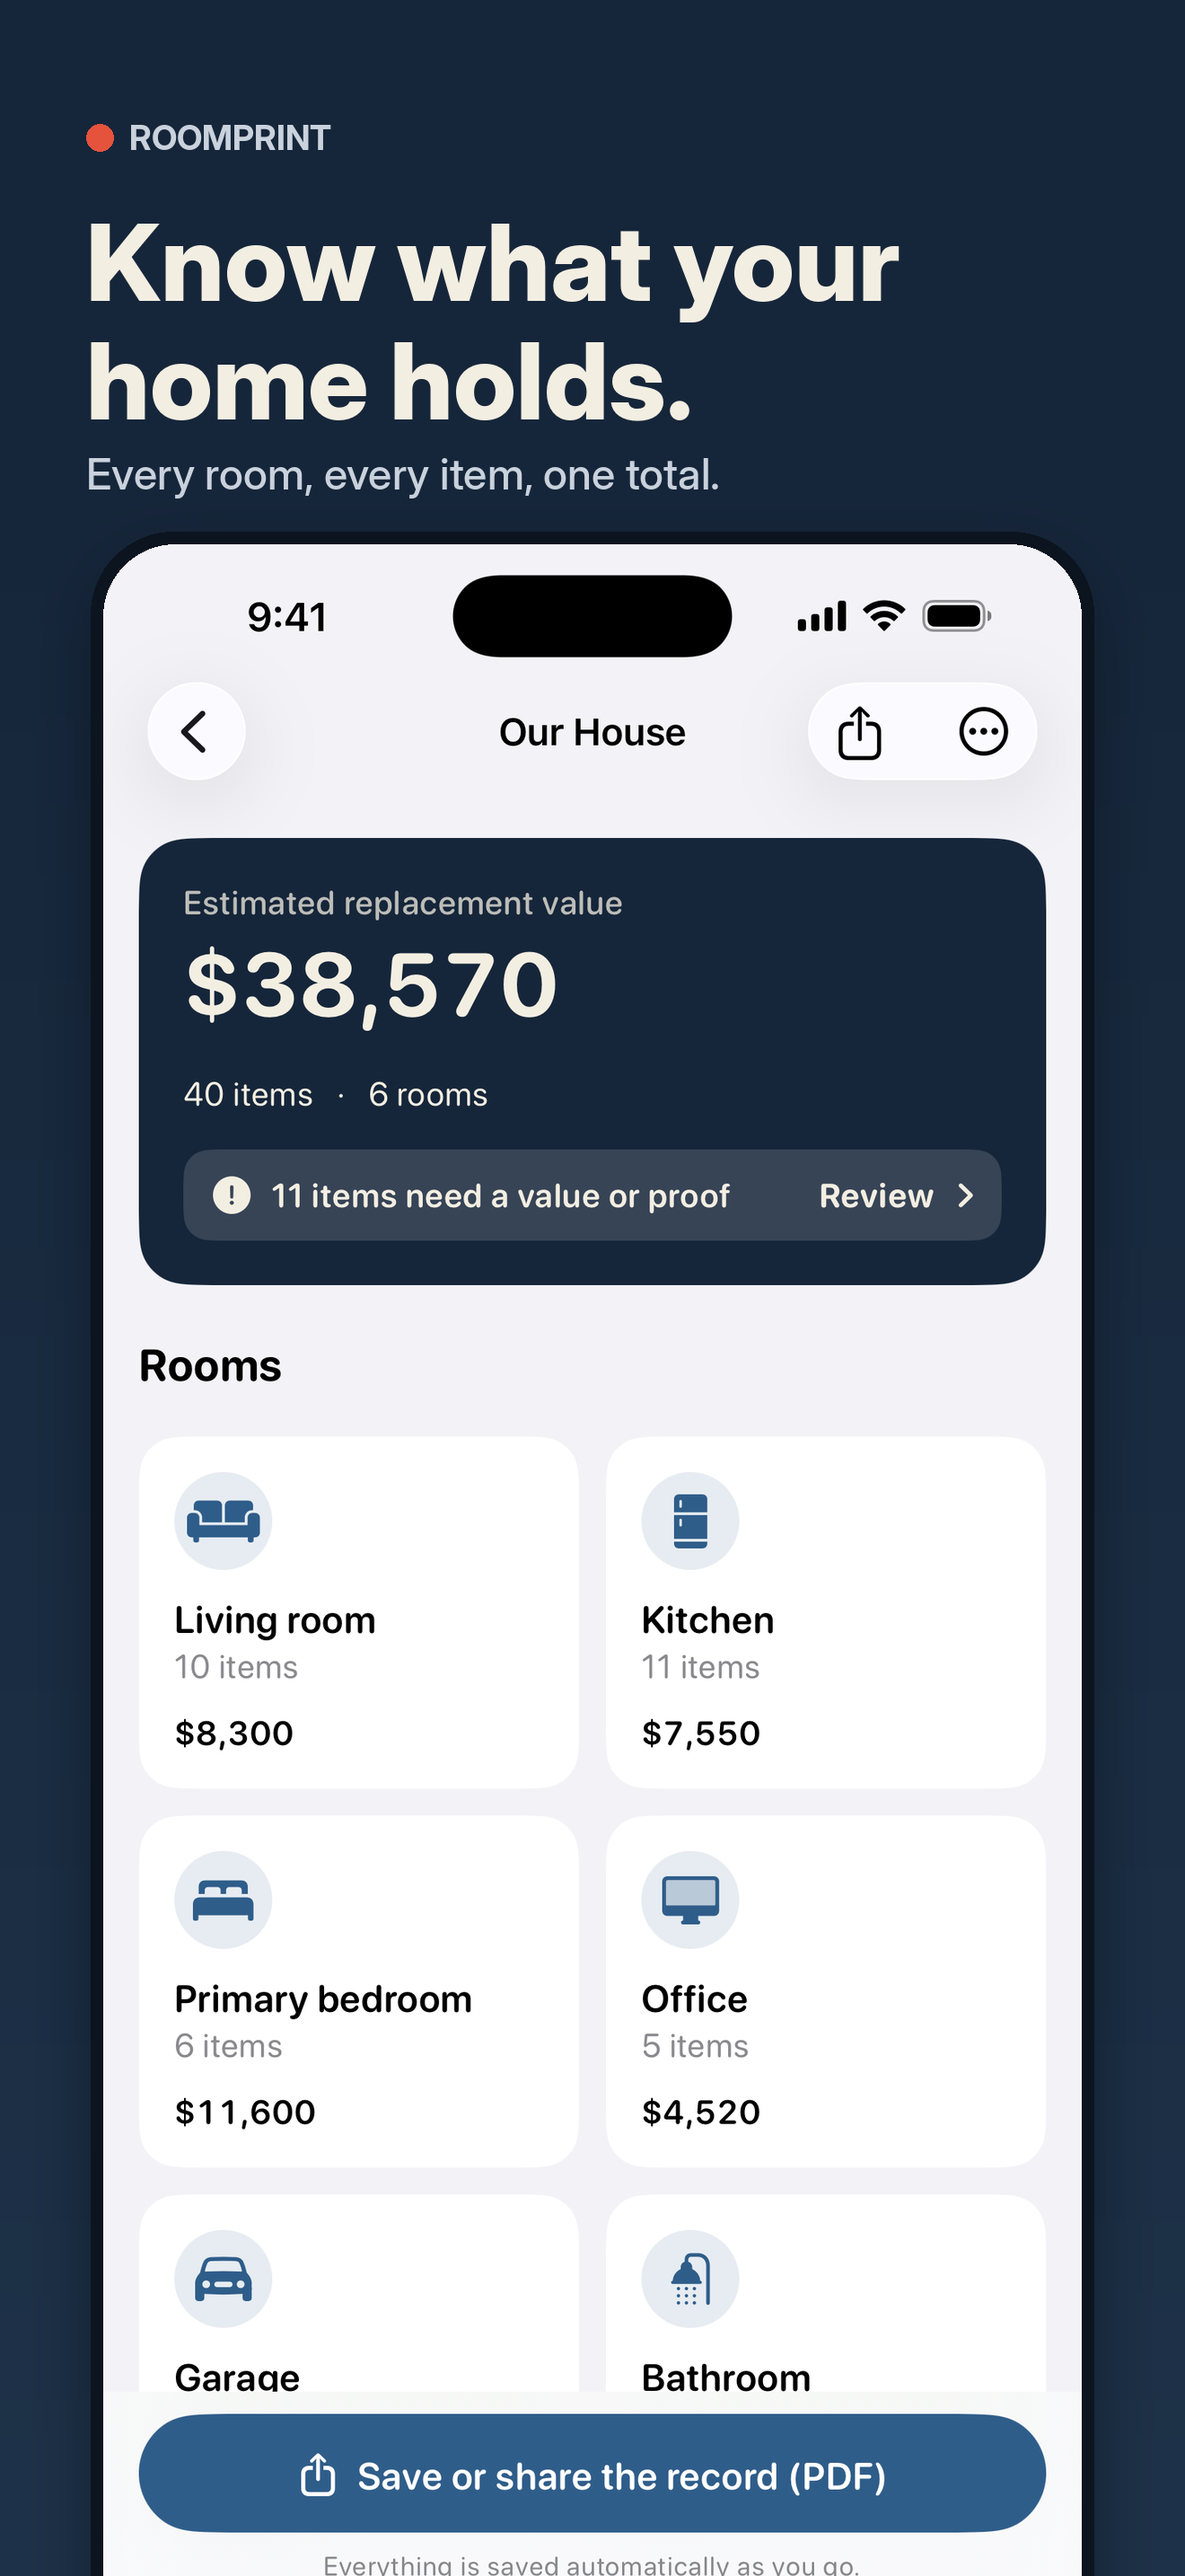
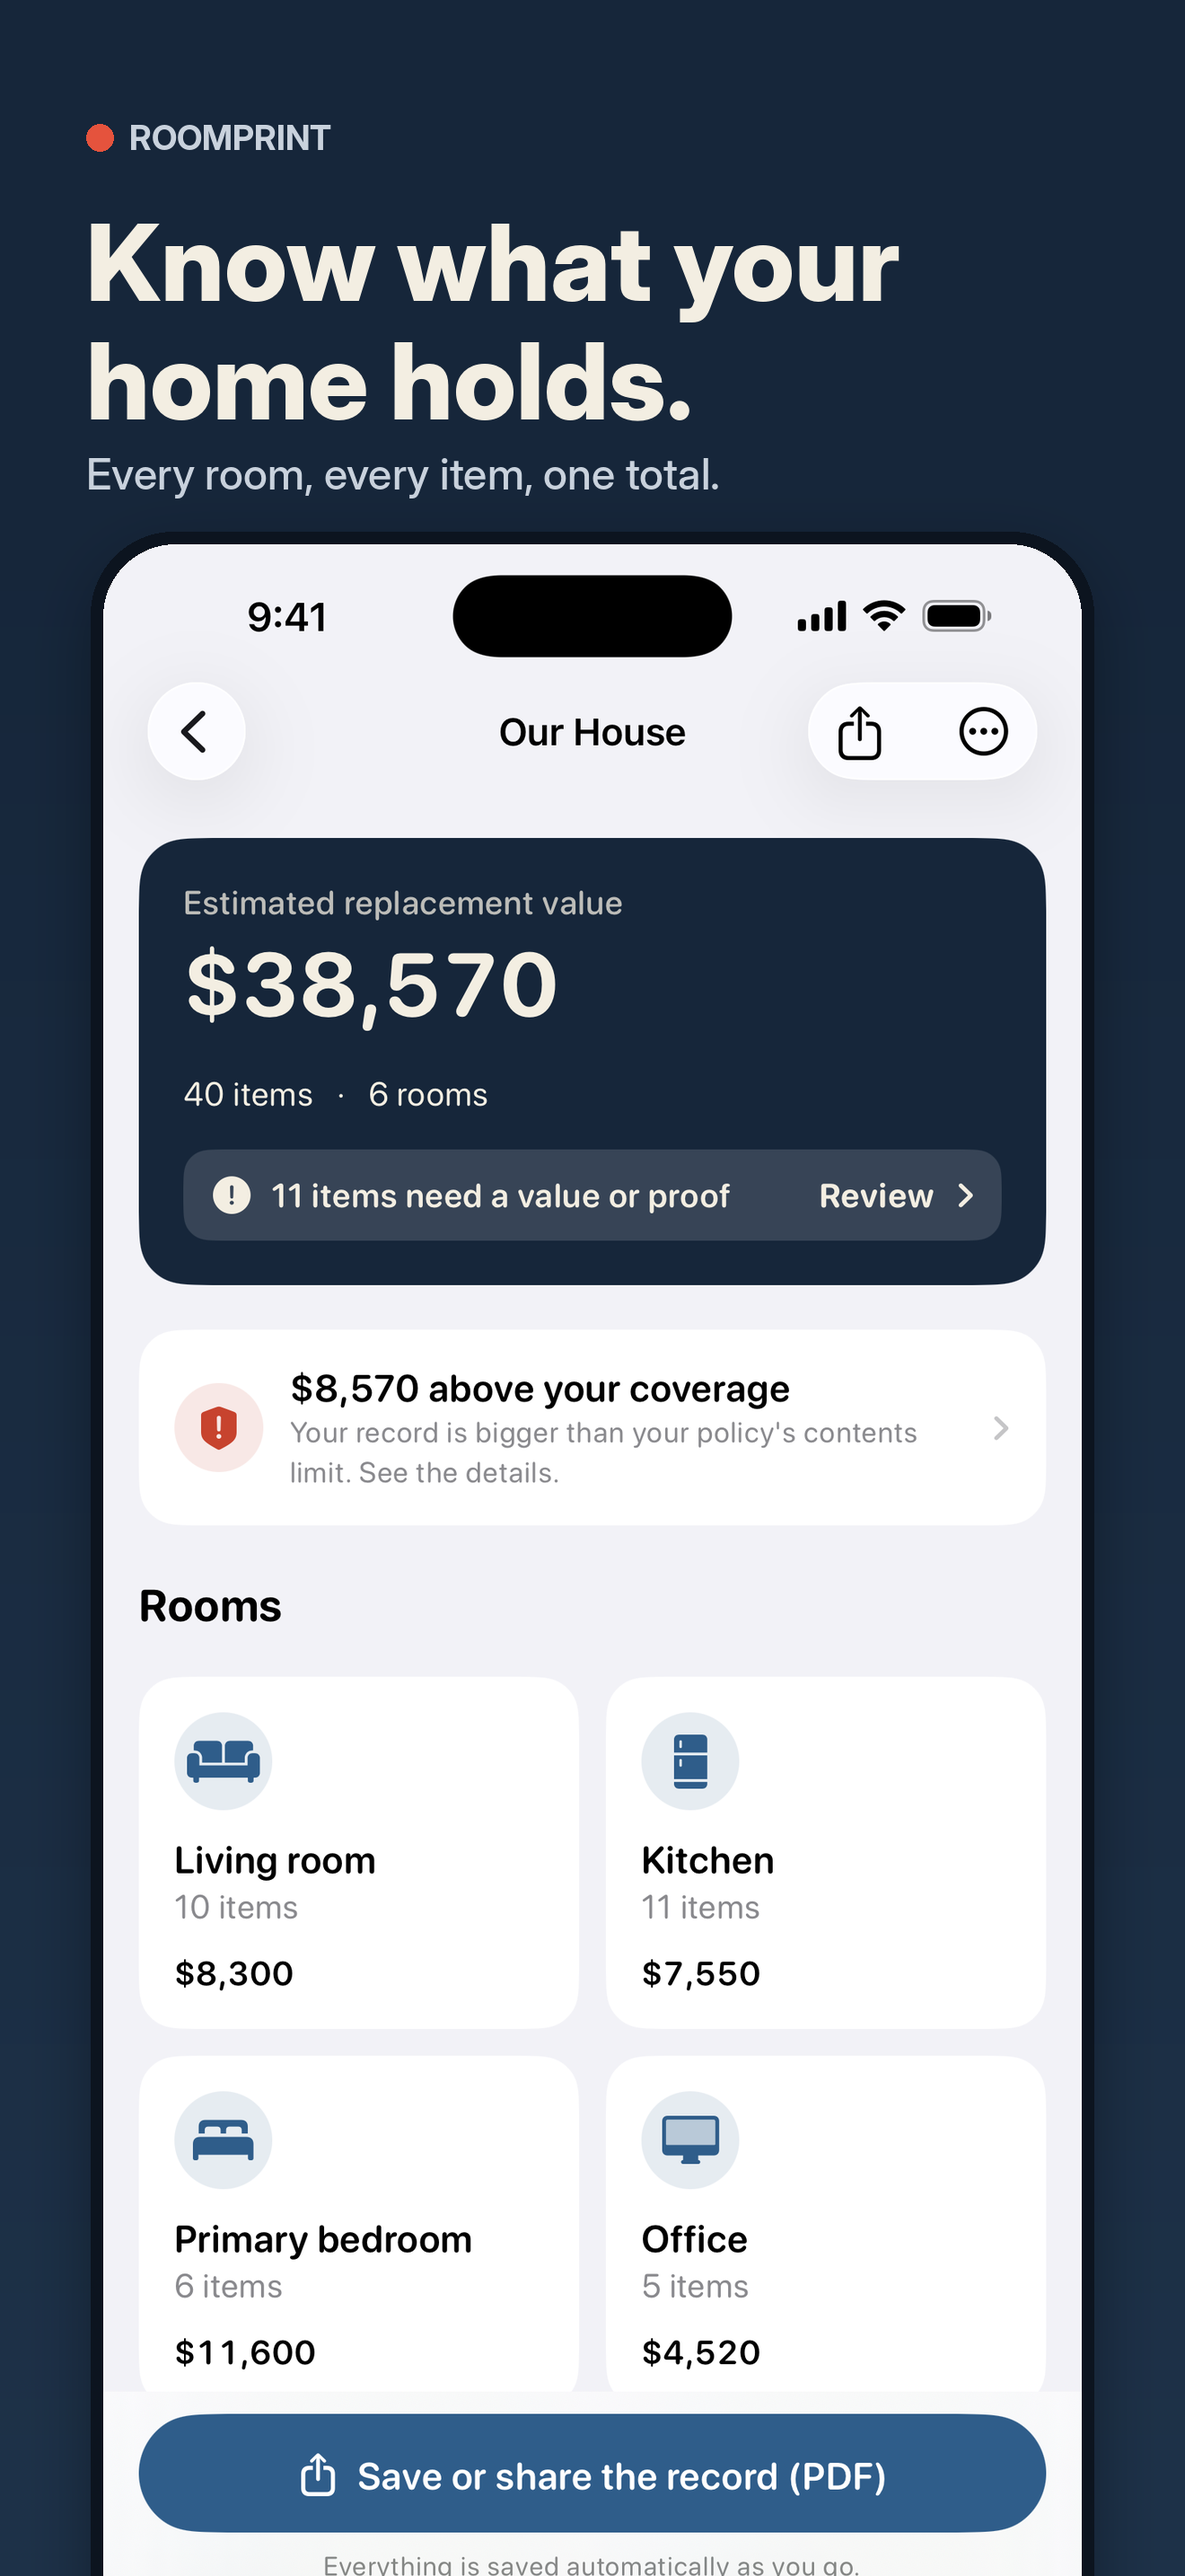
Website: real app screens, coverage check and claim list sections, new share image; 7 App Store screenshots
Claude-Session: https://claude.ai/code/session_01DpUJGzKXuCxCUFUkrPZz5U

Changed region(s): [[0.1242, 0.5275, 0.6833, 0.931], [0.2795, 0.8689, 0.3106, 0.8999], [0.2795, 0.7758, 0.3106, 0.8068]]

diff --git a/docs/index.html b/docs/index.html
@@ -14,7 +14,7 @@
 <meta property="og:image" content="https://getroomprint.com/og.png">
 <meta property="og:image:width" content="1200">
 <meta property="og:image:height" content="630">
-<meta property="og:image:alt" content="Roomprint app icon, a house with a red record dot">
+<meta property="og:image:alt" content="Roomprint: film a room, get the list. The app's review screen on an iPhone.">
 <meta name="twitter:card" content="summary_large_image">
 <meta name="twitter:title" content="Roomprint: film a room, keep a claim-ready record">
 <meta name="twitter:description" content="Turn a one-minute video of a room into an itemized, claim-ready record of what you own. You approve every list.">
@@ -118,6 +118,27 @@ footer a{color:var(--vellum-2)}
 }
 @media (max-width:540px){.steps,.gets{grid-template-columns:1fr}.sec{padding-block:52px}}
 @media (prefers-reduced-motion:reduce){html{scroll-behavior:auto}}
+
+.phones{display:grid;grid-template-columns:repeat(3,minmax(0,1fr));gap:26px}
+.phone{margin:0;display:grid;gap:14px;align-content:start}
+.phone img{width:100%;height:auto;display:block;border-radius:34px;border:6px solid #0F1824;box-shadow:0 18px 40px rgba(15,24,36,.22);background:#0F1824}
+.phone figcaption{display:grid;gap:4px}
+.phone figcaption b{font:700 18px var(--body)}
+.phone figcaption span{color:var(--muted);font-size:15px}
+.feature{display:grid;grid-template-columns:minmax(0,1.15fr) minmax(0,.85fr);gap:44px;align-items:center}
+.feature.flip>.phone{order:-1}
+.feature .phone{max-width:320px;justify-self:center}
+.feature h2{margin:8px 0 12px}
+.feature ul{margin:18px 0 0;padding:0;list-style:none;display:grid;gap:12px}
+.feature li{padding-left:26px;position:relative}
+.feature li::before{content:"";position:absolute;left:0;top:.5em;width:10px;height:10px;border-radius:50%;background:#E5533D}
+@media (max-width:760px){
+.phones{grid-auto-flow:column;grid-auto-columns:72%;grid-template-columns:none;overflow-x:auto;scroll-snap-type:x mandatory;padding-bottom:10px;margin-inline:-16px;padding-inline:16px}
+.phones .phone{scroll-snap-align:center}
+.feature{grid-template-columns:1fr;gap:28px}
+.feature.flip>.phone{order:0}
+.feature .phone{max-width:260px}
+}
 </style>
 </head>
 <body>
@@ -127,7 +148,7 @@ footer a{color:var(--vellum-2)}
   <div class="inner">
     <div class="top">
       <a class="logo" href="#top" id="top"><svg aria-hidden="true"><use href="#mark"/></svg>Roomprint</a>
-      <nav aria-label="Main"><a href="#how">How it works</a><a href="#pricing">Pricing</a><a href="#faq">Questions</a><a href="#get">Get the app</a></nav>
+      <nav aria-label="Main"><a href="#app">The app</a><a href="#how">How it works</a><a href="#pricing">Pricing</a><a href="#faq">Questions</a><a href="#get">Get the app</a></nav>
     </div>
     <div class="hero-grid">
       <div>
@@ -170,7 +191,48 @@ footer a{color:var(--vellum-2)}
     </div>
   </section>
 
-  <section class="sec band alt" id="how">
+  <section class="sec band alt" id="app">
+    <div class="inner">
+      <div class="sec-head"><p class="eyebrow">The app</p><h2>From a one-minute video to a record you can hand over.</h2></div>
+      <div class="phones">
+        <figure class="phone"><img src="img/review.jpg" width="600" height="1304" loading="lazy" alt="Roomprint's review screen listing kitchen items it found, each with a value"><figcaption><b>1. Approve the list</b><span>Film the room. Every item comes back named and valued, and nothing is saved until you say so.</span></figcaption></figure>
+        <figure class="phone"><img src="img/home.jpg" width="600" height="1304" loading="lazy" alt="Roomprint's home screen showing a total replacement value and a value for each room"><figcaption><b>2. See what it adds up to</b><span>One total, room by room, with what still needs proof.</span></figcaption></figure>
+        <figure class="phone"><img src="img/pdf.jpg" width="600" height="1304" loading="lazy" alt="The Roomprint home record PDF with totals by room"><figcaption><b>3. Keep the record</b><span>A clean PDF of everything, ready for your insurer or your agent.</span></figcaption></figure>
+      </div>
+    </div>
+  </section>
+  <section class="sec band" id="coverage">
+    <div class="inner feature">
+      <div>
+        <p class="eyebrow">Coverage check</p>
+        <h2>Would your policy replace it all?</h2>
+        <p>Most people pick a contents coverage number once and never look again. Type yours in and Roomprint sets it beside what you actually own.</p>
+        <ul>
+          <li>See how far your record runs above or below your coverage.</li>
+          <li>Spot the things policies often cap, like jewelry, firearms and collectibles.</li>
+          <li>Send your agent a ready-written note with your numbers and ask for a review.</li>
+        </ul>
+        <p style="margin-top:16px;font-size:14px;color:var(--muted)">Roomprint compares numbers you enter. It isn't insurance advice; your policy and your agent decide what's covered.</p>
+      </div>
+      <figure class="phone"><img src="img/coverage.jpg" width="600" height="1304" loading="lazy" alt="Roomprint's coverage check showing a record 8,570 dollars above the policy's contents coverage"></figure>
+    </div>
+  </section>
+  <section class="sec band alt" id="claim">
+    <div class="inner feature flip">
+      <div>
+        <p class="eyebrow">If the worst happens</p>
+        <h2>The claim list, already written.</h2>
+        <p>After a fire, theft or storm, nobody wants to rebuild a list from memory. Open your record and mark what was lost.</p>
+        <ul>
+          <li>Mark the whole home, a whole room, or one item at a time, as lost or damaged.</li>
+          <li>Add the date of loss and your claim number.</li>
+          <li>Send the adjuster a claim PDF and a spreadsheet with every item, value and photo.</li>
+        </ul>
+      </div>
+      <figure class="phone"><img src="img/claim.jpg" width="600" height="1304" loading="lazy" alt="Roomprint's claim list screen with first steps after a loss and the total claimed"></figure>
+    </div>
+  </section>
+  <section class="sec band" id="how">
     <div class="inner">
       <div class="sec-head"><p class="eyebrow">How it works</p><h2>Film the room once. The app lists what's in it.</h2></div>
       <ol class="steps">
@@ -191,6 +253,8 @@ footer a{color:var(--vellum-2)}
         <li><b>Estimated replacement cost</b><span>What a similar new item costs today, with a total by room.</span></li>
         <li><b>Proof for each item</b><span>Each line is saved with the photo or video frame that shows it.</span></li>
         <li><b>A claim-ready PDF</b><span>Every room, every item, photos, values and totals. Pro adds password-protected PDFs and spreadsheet export.</span></li>
+        <li><b>A coverage check</b><span>Enter the contents coverage on your policy and see whether it would replace what you own, plus the kinds of items policies often cap.</span></li>
+        <li><b>A claim list when you need it</b><span>After a fire, theft or storm, mark what was lost and send your insurer the list they ask for, with date of loss and claim number.</span></li>
         <li><b>Private by design</b><span>Records stay on your iPhone, in your own backup. Lock the app with Face ID. Room scans ask first, and Roomprint doesn't keep the frames.</span></li>
       </ul>
     </div>
@@ -214,6 +278,7 @@ footer a{color:var(--vellum-2)}
         <details><summary>How long does a room take?</summary><p>Film for 30 seconds to 3 minutes, then the app works for a minute or two while you watch. Most homes are done, garage included, inside an hour.</p></details>
         <details><summary>How accurate is the list?</summary><p>It finds the things an insurer cares about — furniture, electronics, appliances, tools, gear — and estimates what each costs new today. You review everything before it's saved: swipe off mistakes, tap to fix a value. Items the scan wasn't sure about are flagged for you.</p></details>
         <details><summary>Who sees my stuff?</summary><p>Your records stay on your iPhone, in your own backup, and you can lock the app with Face ID. A room scan sends still frames from your video to our scan service, which uses Anthropic's Claude AI to list the items, and only after you allow it. Roomprint doesn't keep the frames, and Anthropic doesn't train on them. We don't sell or share anything. <a href="privacy.html">Privacy policy</a></p></details>
+        <details><summary>What do I do after a fire or break-in?</summary><p>Call your insurer for a claim number, photograph the damage before anything is moved, and keep damaged items until the adjuster has seen them. Then open Roomprint, tap <b>Had a fire, theft or storm?</b>, mark what was lost, and send the claim list it makes.</p></details>
         <details><summary>Is this an appraisal?</summary><p>No. Values are estimates of what similar new items cost today. For jewelry, art and collectibles we recommend a written appraisal, and the record gives you the list to take with you.</p></details>
         <details><summary>Will this lower my insurance price?</summary><p>No. Roomprint isn't an insurance product and doesn't give coverage advice. It helps you get paid fully and faster if you ever have a claim, and it gives you a real total to take to your insurance agent when you review your policy.</p></details>
         <details><summary>Do I need to clean or organize first?</summary><p>No. Just put away anything private, like bank papers, ID cards or safe combinations. Film your home as it is.</p></details>

diff --git a/tools/frame_shots.py b/tools/frame_shots.py
@@ -22,10 +22,11 @@ RECORD = (229, 83, 61)
 SHOTS = [
     ("review.png", "01-film-a-room.png", "Film a room.\nGet the list.", "Every item named and valued. You approve it."),
     ("home.png", "02-whole-home.png", "Know what your\nhome holds.", "Every room, every item, one total."),
-    ("pdf.png", "03-claim-ready.png", "A claim-ready\nrecord.", "One tap to the PDF your insurer asks for."),
-    ("room.png", "04-proof.png", "Proof for\nevery item.", "Photos, brands, serial numbers, receipts."),
-    ("scan.png", "05-walkthrough.png", "One slow\nwalkthrough.", "30 seconds to 3 minutes a room."),
-    ("homes.png", "06-every-home.png", "Every place\nyou own.", "House, rental, lake house. All private on your iPhone."),
+    ("coverage.png", "03-covered.png", "Are you\ncovered?", "See your record against your policy."),
+    ("pdf.png", "04-claim-ready.png", "A claim-ready\nrecord.", "One tap to the PDF your insurer asks for."),
+    ("room.png", "05-proof.png", "Proof for\nevery item.", "Photos, brands, serial numbers, receipts."),
+    ("scan.png", "06-walkthrough.png", "One slow\nwalkthrough.", "30 seconds to 3 minutes a room."),
+    ("homes.png", "07-every-home.png", "Every place\nyou own.", "House, rental, lake house. All private on your iPhone."),
 ]
 
 

diff --git a/appstore/listing.md b/appstore/listing.md
@@ -48,6 +48,12 @@ Everything App Store Connect asks for, in the order it asks. Edit freely; nothin
 > EXPORT A CLAIM-READY RECORD
 > One tap makes a clean PDF of your whole home — every room, every item, photos, values and totals — the way an adjuster wants to see it. Keep a copy somewhere safe and share it with your agent.
 >
+> ARE YOU COVERED?
+> Enter the contents coverage from your policy and Roomprint shows how it compares with what you actually own. It also points out things policies often cap, like jewelry, firearms and collectibles, and writes a note you can send your agent.
+>
+> IF THE WORST HAPPENS
+> After a fire, theft or storm, mark what was lost or damaged, by room or all at once, and get a claim list PDF and spreadsheet with the date of loss and your claim number, ready for the adjuster.
+>
 > PRIVATE BY DESIGN
 > Your records stay on your iPhone, in your own backup. Lock the app with Face ID. A room scan asks first, then sends still frames from your video to our scan service, which uses Anthropic's Claude AI to list the items. Roomprint keeps no frames, and Anthropic doesn't train on them.
 >
@@ -64,7 +70,7 @@ Everything App Store Connect asks for, in the order it asks. Edit freely; nothin
 
 **What's New in This Version**
 
-> First release. Film a room, approve the list, export a claim-ready PDF.
+> First release. Film a room, approve the list, check your coverage, export a claim-ready PDF.
 
 ## In-app purchases
 

diff --git a/appstore/RESUBMIT.md b/appstore/RESUBMIT.md
@@ -13,7 +13,8 @@ current rules, whatever else the note says:
    screen said "Test build". Review builds now work like the store build: first scan free, then packs.
    "Get more room scans" is on the scan screen and in Settings.
 
-Also new: privacy policy rewritten for the AI rule (getroomprint.com/privacy.html), the scan service can't
+Also new in the app: a coverage check (your record against your policy's contents coverage), a claim list for
+after a loss, one-tap "often missed" items, a six-month reminder. And: privacy policy rewritten for the AI rule (getroomprint.com/privacy.html), the scan service can't
 cut off long lists, credits survive a reinstall, scan-first onboarding, PDF preview, Help/Email/Terms in
 Settings, the private scan key.
 
@@ -53,7 +54,7 @@ Settings, the private scan key.
    website will be changed to match.
 7. **Screenshots** (top of the page, 6.9-inch display): optional but recommended. After step 1 they are on
    the Mac: in Finder open **Downloads > Roomprint-iOS-project > Roomprint-iOS > appstore > screenshots > 6.9**
-   and drag the six files in, 01 first.
+   and drag the seven files in, 01 first.
 8. Left sidebar > **App Privacy**: check it matches **App Privacy answers** below. Click **Publish** if you
    changed anything.
 9. Top right: **Add for Review**, then **Submit to App Review** (it may say **Resubmit to App Review**).
